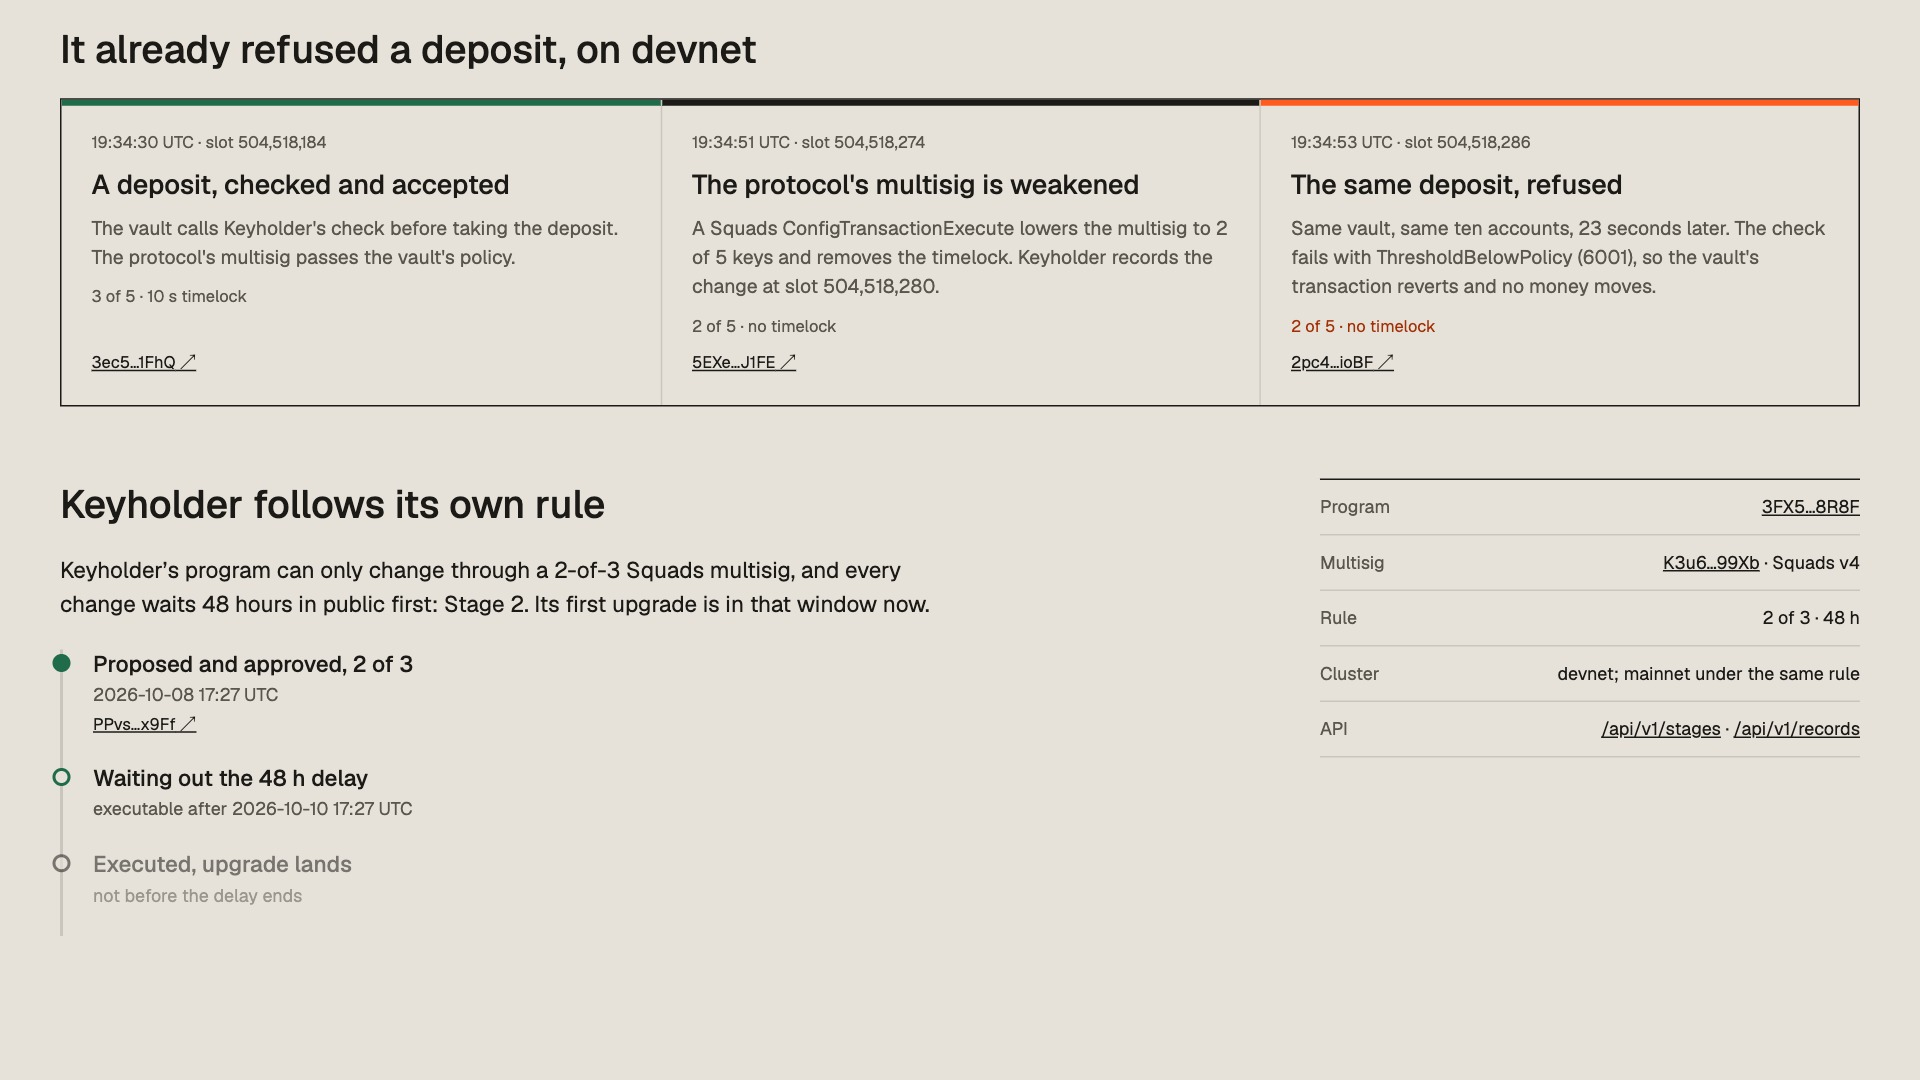
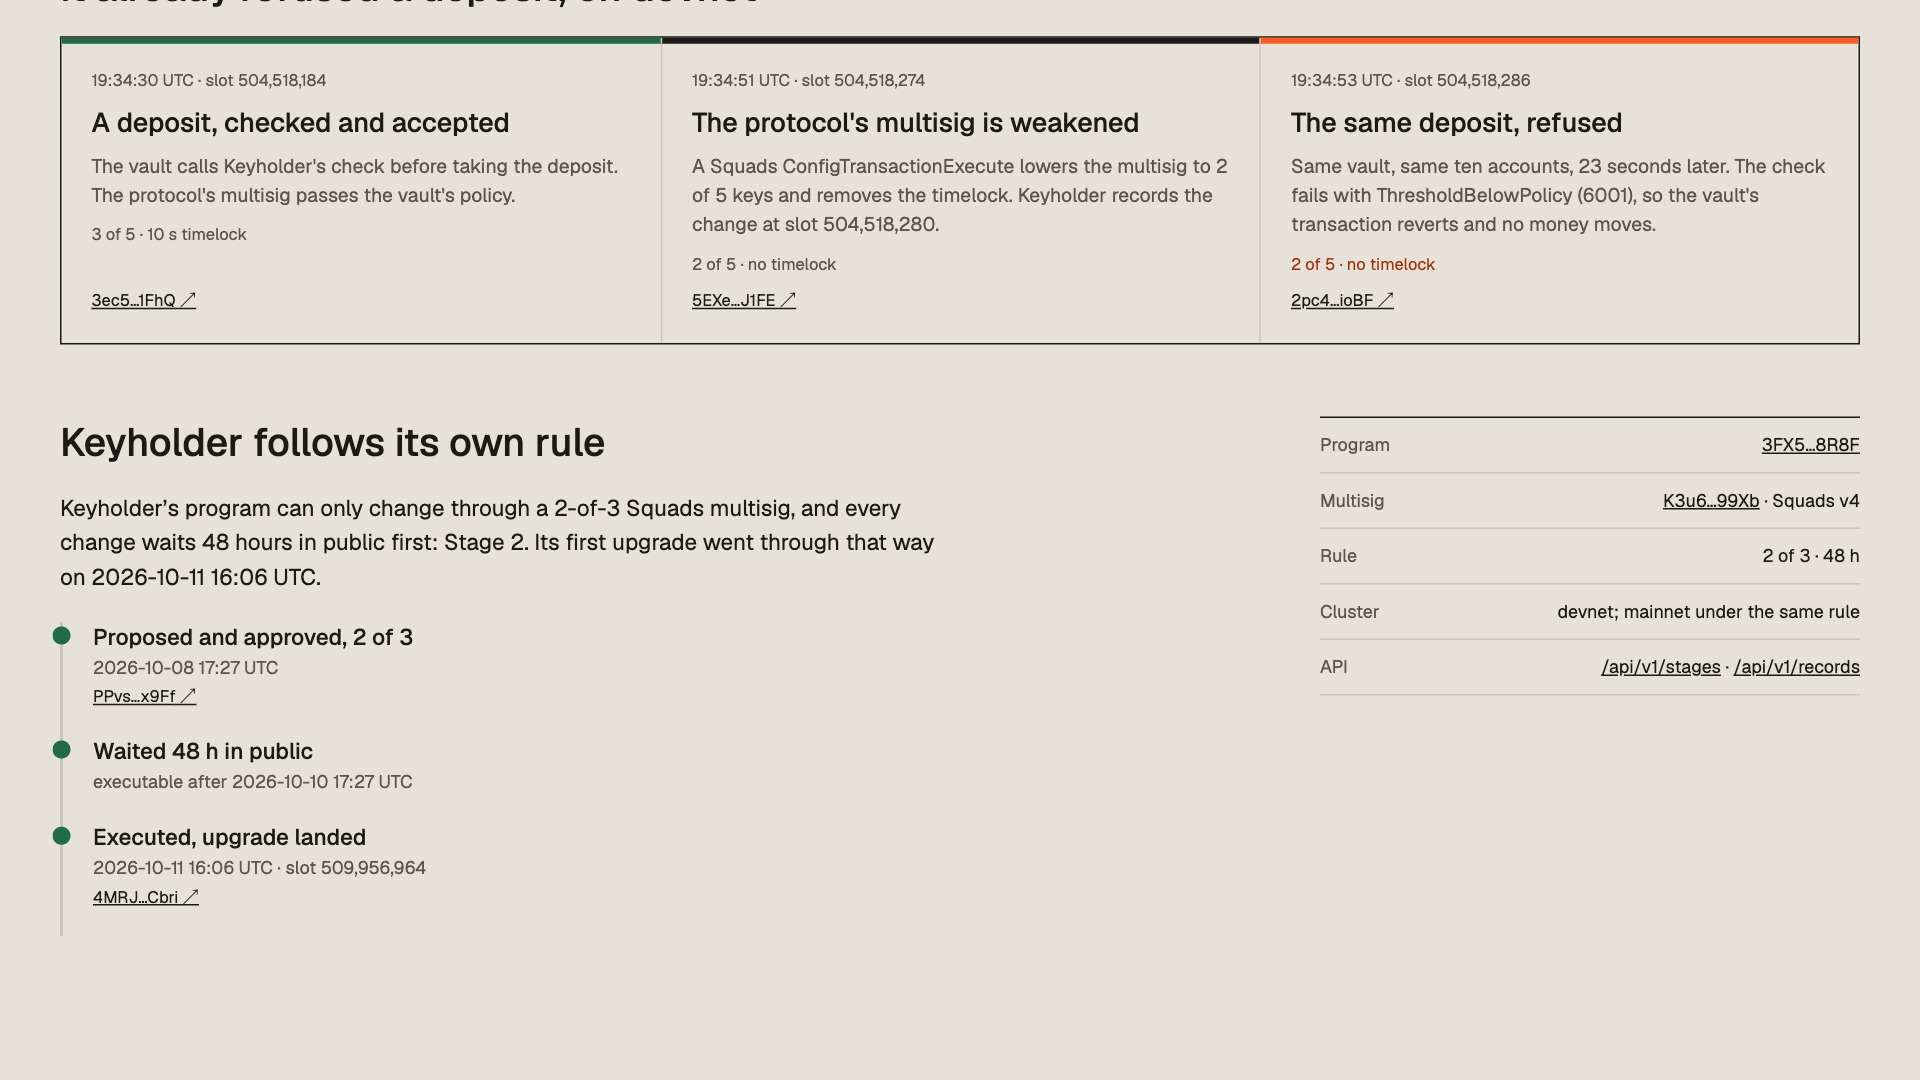
Docs for the current product and narrated film; film chapter 9 shows the executed upgrade

diff --git a/design/video/demo/film.html b/design/video/demo/film.html
@@ -122,8 +122,8 @@ const CH = [
     focus: [{ s: 'drift-3', k: 'warning', a: 10.4, b: 13.4, tip: 'the warning Keyholder would have given' }] },
   { st: ['build-0', 0, 'build-1', 5.2], dur: 10, url: 'keyholder-ashy.vercel.app/policy', num: '08 · ENFORCE', head: 'Refuse money where control is weak.', body: 'One line, require_stage, lets any program refuse a deposit when the target\u2019s control is below its policy.', fact: 'devnet: same deposit refused 23 s after the multisig was weakened', q: 'Can a program protect itself?', qs: '',
     focus: [{ s: 'build-0', k: 'refused', a: 1.4, b: 4.6, tip: 'your policy, applied to every program' }, { s: 'build-1', k: 'refusal', a: 6.2, b: 9.2, tip: 'a real devnet deposit, refused' }] },
-  { st: ['self-0', 0], dur: 6, url: 'keyholder-ashy.vercel.app/policy', num: '09 · OUR OWN RULE', head: 'Keyholder waits too.', body: 'Its own program can only change through a 2-of-3 multisig, and every change waits 48 hours in public first.', fact: 'executable after 2026-10-10 17:27 UTC', q: 'Does Keyholder follow its own rule?', qs: '',
-    focus: [{ s: 'self-0', k: 'selfline', a: 1.2, b: 5, tip: '2 of 3 approved, waiting 48 h in public' }] },
+  { st: ['self-0', 0], dur: 6, url: 'keyholder-ashy.vercel.app/policy', num: '09 · OUR OWN RULE', head: 'Keyholder waits too.', body: 'Its own program can only change through a 2-of-3 multisig, and every change waits 48 hours in public first. Its first upgrade just went through that way.', fact: 'executed 2026-10-11 16:06 UTC, after 48 h in public', q: 'Does Keyholder follow its own rule?', qs: '',
+    focus: [{ s: 'self-0', k: 'selfline', a: 1.2, b: 5, tip: '2 of 3 approved, 48 h in public, then executed' }] },
 ];
 // timeline
 const T_INTRO = 4.2, T_HOOK = 8.0, T_GAP = .5, T_Q = 2.3, T_OUTRO = 7;

diff --git a/SUBMISSION.md b/SUBMISSION.md
@@ -1,32 +1,31 @@
-# Colosseum submission: Keyholder (Solana track)
+# Colosseum submission: Keyholder
 
 **Name:** Keyholder
 
-**One line:** Know who can move the money: Keyholder reads who controls every Solana program, warns when that control weakens, and lets a vault refuse deposits where it just did.
+**One line:** The control record for Solana: who can change every program, how fast, and whether that just changed, with an on-chain check that refuses money where control is weak.
 
 **Links**
 - Live: https://keyholder-ashy.vercel.app
-- KeyBench: https://keyholder-ashy.vercel.app/keybench
 - Repo: https://github.com/hemjay07/keyholder
-- Demo video: <add after recording>
+- Demo film (2:42, narrated): <add the upload link>
+- Pitch video: <add after recording>
 
 ## Description
 
-$769M on Solana can be moved today by multisigs that need no waiting period. We traced $2.66B to the vaults of the largest programs, vault by vault, and matched each one to whoever can upgrade the program that holds it: $1.89B sits behind multisigs with a timelock, $769M behind multisigs with none, and Raydium's main AMM alone holds $573M behind three of four keys.
+Every Solana program can be changed by someone. Depositors rarely know who, or how much warning they would get. Today $769M sits behind programs that can be upgraded with no waiting period.
 
-Drift lost $285M in April 2026 without a code bug. The attacker took over the keys. Keyholder watches control instead of code:
+Keyholder reads 577 live programs down to their signer keys and puts each on one of four public Control Stages: one key; several keys but no delay; keys plus a 24 h+ delay; or cannot change. The weakest control path sets the stage. Kamino Lend waits 24 hours to upgrade, but its admin key is a 4-of-10 multisig that can act at once, so it is Stage 1.
 
-- **Control graph.** 557 OtterSec-verified programs resolved from upgrade authority to multisig to each signer key, plus the admin keys stored inside program config.
-- **Alerts.** A worker decodes every control-relevant transaction (upgrades, authority changes, Squads v3/v4 and coral multisig changes, durable nonces, governance proposals) and runs it through a versioned rule engine.
-- **The check.** An Anchor program a vault calls before moving money; it refuses when the target's control is below the vault's policy or changed recently (live on devnet).
-- **A log no one can rewrite.** Every day the control state of every covered program is hashed and the hash posted on chain; anyone can recompute it.
-
-**KeyBench** replays real Solana losses that came through a control key from the transactions themselves and scores Keyholder against them. On Drift, the rules we shipped warn 5.6 days before the first drain. On Synthetify and BonkDAO, a proposal rule warns 8 and 6 days ahead; it was written after studying them and is labelled that way. Raydium 2022 and Rain 2026 are misses, and they stay on the page.
-
-Replaying from chain also corrected the record: Synthetify's 2023 drain was a program upgrade passed through governance, followed 25 seconds later by transfers out of the program's vault, not a treasury withdrawal.
+- **Signer keys.** Keys are reused: one key sits on six multisigs behind $1.5B and can act alone on two of them.
+- **Open votes.** 53 open multisig votes would change who controls a program or move its funds. One was approved 713 days ago and can still be sent.
+- **Ask Keyholder.** Ask in plain words; the answer comes from the record, with the path that sets the stage.
+- **Drift, replayed.** Drift lost $285M in April 2026 through its keys, not its code. Replayed from chain, Keyholder's rules flag the first control change 5.6 days before the money moved.
+- **require_stage.** One CPI call lets any program refuse a deposit when the target's control is below its policy. On devnet it refused a real deposit 23 seconds after the target's multisig was weakened.
+- **Our own rule.** Keyholder's program changes only through a 2-of-3 Squads multisig with a 48 h timelock. Its first upgrade was approved 2026-10-08, waited 48 h in public, and executed 2026-10-11 (devnet tx 4MRJQhAV…Cbri).
+- **Proof of Control.** Teams sign claims about their controls; Keyholder checks them against the chain.
 
 ## How it is built
-Next.js site; TypeScript worker (ingest, byte-level decoders verified on real mainnet accounts, state, risk, alerts, daily log) on a single box with Postgres; Anchor 1.2 program on devnet; chain-read Python scripts for KeyBench and dollar coverage. Every figure on the site comes from a dated data file in the repo, with transaction signatures.
+Next.js site; TypeScript worker (ingest, byte-level decoders verified on real mainnet accounts, state, rule engine, daily log) on one box with Postgres; Anchor program for require_stage on devnet; a daily hash of the record posted on chain. Every figure on the site comes from a dated record with transaction signatures.
 
 ## Limits we state
-KeyBench has 5 incidents, and the rules shipped before it warned on 1. Compiled-in admin keys are not modelled yet. Dollar figures are floors (liquid tokens, the 33 largest programs). The log starts 2026-10-02; anchors are on devnet.
+KeyBench has 5 incidents and the rules shipped before it warned on 1. Compiled-in admin keys are not modelled. Dollar figures are floors. require_stage and the anchors run on devnet. The full list, each with a real case: https://keyholder-ashy.vercel.app/limits

diff --git a/DEMO-SCRIPT.md b/DEMO-SCRIPT.md
@@ -1,30 +1,20 @@
-# Keyholder demo: 2 min 30 s, recorded on the live site
+# Keyholder demo
 
-Browser at 1440 wide, one tab per scene opened in advance. Say the bold lines; the rest is what to do.
+**The demo is the narrated film:** `design/video/demo/keyholder-film-aligned.mp4` (2:42, the founder's voice, pictures retimed to his words). Source: `design/video/demo/film.html` (a seek(t) page rendered frame by frame), narration in `voice/`, word anchors in `voice/anchors.json`. Rebuild with the voicebooth "Build the film" button, or `assemble.py` then `align.py`.
 
-## 1. The number (0:00–0:25) · https://keyholder-ashy.vercel.app/keybench
-Scroll to "Today: $769M can move with no delay".
-- **"Solana programs hold billions, and someone can upgrade every one of them. We traced $2.66 billion to the vaults of the largest programs. $769 million of it sits behind multisigs that can change the code with no waiting period."**
-- Hover the first row (675kPX9M…, 3 of 4, $573M). **"This is Raydium's main AMM: three of four keys, no timelock, half a billion dollars."**
+| chapter | what the viewer sees | the line |
+|---|---|---|
+| intro | the Keyholder mark draws itself | |
+| hook | $769M counts up | "Every Solana program can be changed by someone…" |
+| 01 stages | the four stages, one at a time | "Keyholder puts every program on one of four stages…" |
+| 02 map | 577 columns; Kamino Lend's keys fan out | "Here are all five hundred seventy-seven…" |
+| 03 one program | Kamino Lend: the 4-of-10 admin path is ringed | "The weakest path sets the stage." |
+| 04 one key | one key on six multisigs | "…two of them need only its signature." |
+| 05 open votes | the vote approved 713 days ago | "One was approved seven hundred days ago…" |
+| 06 ask | a question answered from the record | "Ask in plain words…" |
+| 07 proof | Drift replay: the warning 5.6 days early | "…five and a half days before…" |
+| 08 enforce | require_stage and the devnet refusal | "On devnet, it refused a real one…" |
+| 09 own rule | Keyholder's own upgrade: approved, 48 h, executed | "We hold ourselves to the same rule…" |
+| outro | the mark and the closing line | "Who can move it, how fast, and did that change? That's Keyholder." |
 
-## 2. Drift, replayed (0:25–1:10) · https://keyholder-ashy.vercel.app/replay/drift
-Press play, or step through.
-- **"In April, Drift lost $285 million. The attacker didn't break the code; they took over the keys."**
-- At the new-multisig step: **"Five and a half days before the first drain, a second multisig appeared, set up by the same controller. Keyholder's rules flag that the moment it lands on chain."**
-- At the drain: **"Every step here is a real transaction. Click any of them and you're on the explorer."**
-
-## 3. KeyBench (1:10–1:45) · back to /keybench, scroll the incidents
-- **"We didn't stop at Drift. KeyBench replays every Solana loss that came through a control key and asks: would Keyholder have warned, and how early?"**
-- Point at Synthetify and BonkDAO: **"These two were governance attacks: a proposal sat on chain for six to eight days before the money moved. The rule that catches them was written after we studied them, and the page says so."**
-- Point at Raydium: **"And where we would have missed, the miss stays on the page."**
-
-## 4. The check (1:45–2:15) · https://keyholder-ashy.vercel.app/policy
-- **"Alerts are for people. The check is for programs: a vault calls Keyholder on chain before it moves money."**
-- Show the refused deposit, then set a policy in the simulator (for example, at least 3 signers and a 24 h timelock): **"Set your policy, and deposits into a protocol below it are refused."**
-
-## 5. Close (2:15–2:30) · stay on /policy or return to /keybench
-- **"Every day, Keyholder records who controls every program it covers, and posts a hash of that record on chain, so no one can rewrite what control looked like on any given day. Keyholder: know who can move the money."**
-
-## Before recording
-- Each URL above returns 200 (checked 2026-10-07).
-- Numbers on the pages come from data files; if they are regenerated before recording, re-read scene 1's figures off the page.
+**Live walkthrough, if asked:** home → /stages → /programs/KLend… → /signers/5ggs… → /stories/open-votes → Ask "is Kamino safe?" → /replay/drift → /policy. Every page loads from the record; no setup.

diff --git a/README.md b/README.md
@@ -1,18 +1,21 @@
 # Keyholder
 
-**$769M on Solana can be moved today by multisigs that need no waiting period.** Keyholder reads who controls every program, rings when that control weakens, and lets a vault refuse deposits into a protocol whose control just changed.
+**Who can change a Solana program, how fast, and did that just change?** Keyholder puts 577 live programs on one of four Control Stages, from "one key can replace the code today" to "cannot change", and lets any program refuse money where control is weak.
 
-[![KeyBench: would Keyholder have warned before the money moved?](docs/keybench-fold.png)](https://keyholder-ashy.vercel.app/keybench)
+[![Keyholder: the control record for Solana](docs/keybench-fold.png)](https://keyholder-ashy.vercel.app)
 
-**Live:** [keyholder-ashy.vercel.app](https://keyholder-ashy.vercel.app) · [KeyBench](https://keyholder-ashy.vercel.app/keybench) · [Drift replay](https://keyholder-ashy.vercel.app/replay/drift) · [For vaults](https://keyholder-ashy.vercel.app/policy)
+**Live:** [keyholder-ashy.vercel.app](https://keyholder-ashy.vercel.app) · [Stages](https://keyholder-ashy.vercel.app/stages) · [Open votes](https://keyholder-ashy.vercel.app/stories/open-votes) · [Drift replay](https://keyholder-ashy.vercel.app/replay/drift) · [Build](https://keyholder-ashy.vercel.app/policy) · Film: `design/video/demo/keyholder-film-aligned.mp4`
 
 ## What it does
 
-- **Control graph.** For 557 OtterSec-verified programs: upgrade authority → multisig → each signer key, and for the 18 money-layer programs with an IDL, the admin keys stored inside program config.
-- **Alerts.** A worker decodes every control-relevant transaction (loader upgrades and authority changes, Squads v3/v4 and coral multisig changes, durable nonces, spl-governance proposals) and runs it through a versioned rule engine (`packages/risk`).
-- **The check.** An Anchor program (devnet) that a vault calls before it moves money: it refuses when the target's control is below the vault's policy or changed recently.
-- **Dollar coverage.** $2.66B traced vault by vault to the program that controls it: $1.89B behind multisigs with a timelock, $769M behind multisigs with none, $0.5M behind a single key (floors: liquid tokens only).
-- **A provable log.** Every day the control state of all covered programs is written to `program_daily`, hashed, and the hash is posted on chain as a memo. `verify-anchor` recomputes it from the rows; changing any row breaks it.
+- **Control Stages.** Each program gets Stage 0 (one key), 1 (several keys, no delay), 2 (keys plus a 24 h+ delay) or 3 (cannot change). Every control path counts, not just the upgrade key: Kamino Lend waits 24 h to upgrade, but its admin key is a 4-of-10 multisig with no delay, so it is Stage 1. $769M sits behind programs that can be upgraded with no waiting period.
+- **Signer keys.** Keys are reused across multisigs. One key sits on six multisigs behind $1.5B and can act alone on two of them.
+- **Open votes.** 53 open multisig votes would change who controls a program or move its funds; one was approved 713 days ago and can still be sent by any signer.
+- **Ask Keyholder.** Plain-language questions, answered from the record with the path that sets the stage.
+- **require_stage.** An Anchor check (devnet) a program calls before it moves user funds. It refused a real deposit 23 seconds after the target's multisig was weakened.
+- **Keyholder's own rule.** Its program changes only through a 2-of-3 Squads multisig with a 48 h timelock. The first upgrade was approved on 2026-10-08, waited 48 h in public and executed on 2026-10-11 ([tx](https://explorer.solana.com/tx/4MRJQhAVatnGeFCLcyf1AGZHAzGz4ciXaJSyG92cfLacXHQ6vUARMNnDxTGCtsiTY7py9xZPNdKVDjDNwZoRCbri?cluster=devnet)).
+- **Proof of Control claims.** Teams sign a claim about their controls; Keyholder checks it against the chain.
+- **A log no one can rewrite.** Each day's control state is hashed and the hash posted on chain; `verify-anchor` recomputes it.
 
 ## KeyBench
 
